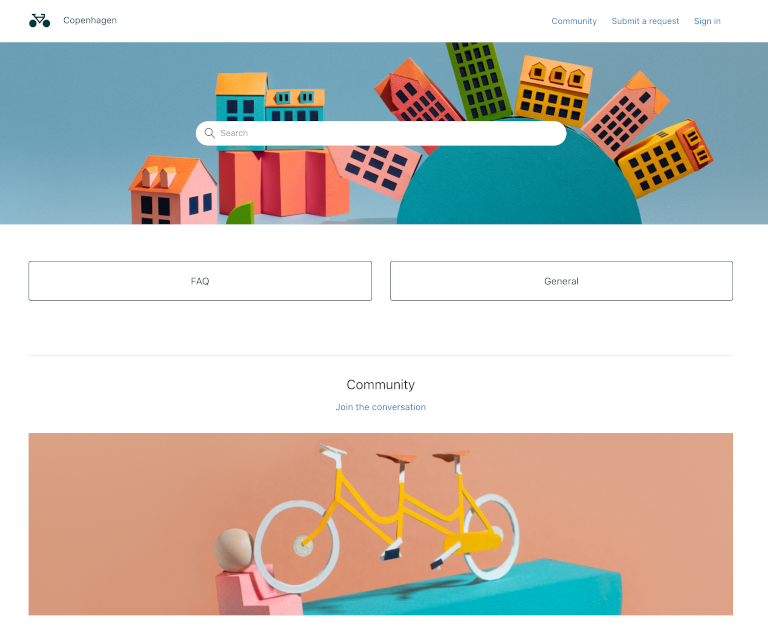
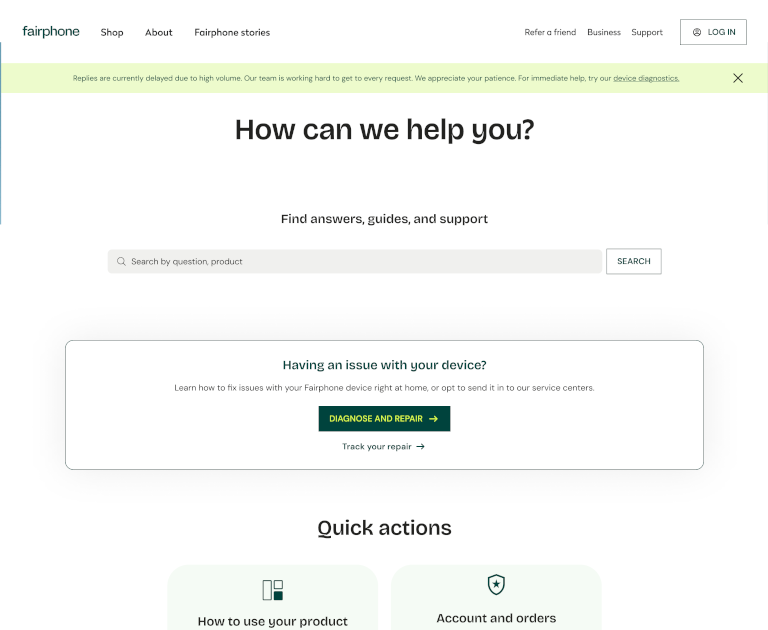
chore: bump version to 4.4.6 and fix asset URL references
- Update manifest.json version and name for new release
- Replace hyphens with underscores in asset URL paths in style.css to match actual file naming convention

diff --git a/style.css b/style.css
@@ -155,15 +155,15 @@ hr {
 
 @font-face {
   font-family: "BricolageGrotesque";
-  src: url($assets-font_BricolageGrotesque24pt_SemiBold-eot);
-  src: url($assets-font_BricolageGrotesque24pt_SemiBold-eot?#iefix) format("eot"), url($assets-font_BricolageGrotesque24pt_SemiBold-woff) format("woff"), url($assets-font_BricolageGrotesque_24pt_SemiBold-ttf) format("truetype"), url($assets-font_BricolageGrotesque24pt_SemiBold-svg) format("svg");
+  src: url($assets_font_BricolageGrotesque24pt_SemiBold_eot);
+  src: url($assets_font_BricolageGrotesque24pt_SemiBold_eot?#iefix) format("eot"), url($assets_font_BricolageGrotesque24pt_SemiBold_woff) format("woff"), url($assets_font_BricolageGrotesque_24pt_SemiBold_ttf) format("truetype"), url($assets_font_BricolageGrotesque24pt_SemiBold_svg) format("svg");
   font-weight: 400;
   font-style: normal;
 }
 @font-face {
   font-family: "DMSans";
-  src: url($assets-font_DMSans24pt_Medium-eot);
-  src: url($assets-font_DMSans24pt_Medium-eot?#iefix) format("eot"), url($assets-font_DMSans24pt_Medium-woff) format("woff"), url($assets-font_DMSans_24pt_Medium-ttf) format("truetype"), url($assets-font_DMSans24pt_Medium-svg) format("svg");
+  src: url($assets_font_DMSans24pt_Medium_eot);
+  src: url($assets_font_DMSans24pt_Medium_eot?#iefix) format("eot"), url($assets_font_DMSans24pt_Medium_woff) format("woff"), url($assets_font_DMSans_24pt_Medium_ttf) format("truetype"), url($assets_font_DMSans24pt_Medium_svg) format("svg");
   font-weight: 400;
   font-style: normal;
 }
@@ -346,7 +346,7 @@ p {
   padding: 0 0 0 33px;
 }
 .article-body ul.checklist > li::before {
-  background-image: url($assets-svg_check-svg);
+  background-image: url($assets_svg_check_svg);
   background-position: center;
   background-repeat: no-repeat;
   background-size: contain;
@@ -681,7 +681,7 @@ a[target=_blank]::after {
 }
 
 .c-footer-contact__block-link--chevron::after {
-  content: url($assets-svg_chevron_right_blue-svg);
+  content: url($assets_svg_chevron_right_blue_svg);
   margin: 0 0 0 8px;
 }
 
@@ -1005,7 +1005,7 @@ body .dropdown-menu > li > a {
 }
 
 .c-logo__link {
-  background-image: url($assets-svg_FP_logo_forest-svg);
+  background-image: url($assets_svg_FP_logo_forest_svg);
   background-position: left center;
   background-repeat: no-repeat;
 }
@@ -1236,7 +1236,7 @@ body .c-header__info .user-info + #google_translate_element {
 }
 .c-search-popover-main-nav > .c-search-popover-main-nav__item--parent > .c-search-popover-main-nav__link::after {
   content: "";
-  background-image: url($assets-svg_chevron_wide-svg);
+  background-image: url($assets_svg_chevron_wide_svg);
   background-position: center;
   background-repeat: no-repeat;
   background-size: 20px 20px;
@@ -1607,28 +1607,28 @@ section.search-results-column {
 }
 
 .c-footer__list-link--facebook {
-  mask-image: url($assets-svg_fp_footer_facebook_icon-svg);
-  -webkit-mask-image: url($assets-svg_fp_footer_facebook_icon-svg);
+  mask-image: url($assets_svg_fp_footer_facebook_icon_svg);
+  -webkit-mask-image: url($assets_svg_fp_footer_facebook_icon_svg);
 }
 
 .c-footer__list-link--instagram {
-  mask-image: url($assets-svg_fp_footer_instagram_icon-svg);
-  -webkit-mask-image: url($assets-svg_fp_footer_instagram_icon-svg);
+  mask-image: url($assets_svg_fp_footer_instagram_icon_svg);
+  -webkit-mask-image: url($assets_svg_fp_footer_instagram_icon_svg);
 }
 
 .c-footer__list-link--linkedin {
-  mask-image: url($assets-svg_fp_footer_linkedin_icon-svg);
-  -webkit-mask-image: url($assets-svg_fp_footer_linkedin_icon-svg);
+  mask-image: url($assets_svg_fp_footer_linkedin_icon_svg);
+  -webkit-mask-image: url($assets_svg_fp_footer_linkedin_icon_svg);
 }
 
 .c-footer__list-link--twitter {
-  mask-image: url($assets-svg_fp_footer_twitter_icon-svg);
-  -webkit-mask-image: url($assets-svg_fp_footer_twitter_icon-svg);
+  mask-image: url($assets_svg_fp_footer_twitter_icon_svg);
+  -webkit-mask-image: url($assets_svg_fp_footer_twitter_icon_svg);
 }
 
 .c-footer__list-link--youtube {
-  mask-image: url($assets-svg_fp_footer_youtube_icon-svg);
-  -webkit-mask-image: url($assets-svg_fp_footer_youtube_icon-svg);
+  mask-image: url($assets_svg_fp_footer_youtube_icon_svg);
+  -webkit-mask-image: url($assets_svg_fp_footer_youtube_icon_svg);
 }
 
 ul.c-footer__inline-list {
@@ -1863,15 +1863,15 @@ ul.c-footer__inline-list > li.copyright {
 }
 
 .c-footer-contact__block-icon--contact {
-  background-image: url($assets-img_icon_contact-png);
+  background-image: url($assets_img_icon_contact_png);
 }
 
 .c-footer-contact__block-icon--phone {
-  background-image: url($assets-img_icon_phone-png);
+  background-image: url($assets_img_icon_phone_png);
 }
 
 .c-footer-contact__block-icon--community {
-  background-image: url($assets-img_icon_community-png);
+  background-image: url($assets_img_icon_community_png);
 }
 
 .c-footer-contact__block-title {
@@ -1913,7 +1913,7 @@ ul.c-footer__inline-list > li.copyright {
 }
 
 .c-footer-contact__block-link--chevron::after {
-  content: url($assets-svg_chevron_right_blue-svg);
+  content: url($assets_svg_chevron_right_blue_svg);
   margin: 0 0 0 8px;
 }
 
@@ -1930,6 +1930,15 @@ ul.c-footer__inline-list > li.copyright {
 ul.c-footer ul {
   list-style: none;
   padding: 0;
+}
+
+.row {
+  max-width: 72.5rem;
+  width: 100%;
+  margin-left: auto;
+  margin-right: auto;
+  display: flex;
+  flex-flow: row wrap;
 }
 
 .accordion {
@@ -2812,15 +2821,15 @@ ul.c-footer ul {
 }
 
 .c-home-ctas__cta-img--phone {
-  background-image: url($assets-svg_big_refurbished-svg);
+  background-image: url($assets_svg_big_refurbished_svg);
 }
 
 .c-home-ctas__cta-img--issue {
-  background-image: url($assets-img_repair-png);
+  background-image: url($assets_img_repair_png);
 }
 
 .c-home-ctas__cta-img--order {
-  background-image: url($assets-img_big_order-png);
+  background-image: url($assets_img_big_order_png);
 }
 
 .c-home-ctas__cta-title {
@@ -2959,7 +2968,7 @@ a.c-home-ctas__cta:hover .c-home-ctas__cta-title {
   background-position: center;
   position: relative;
   z-index: 99;
-  background-image: url($assets-img_banner-jpg);
+  background-image: url($assets_img_banner_jpg);
   background-size: cover;
   background-position: center bottom;
 }
@@ -2987,7 +2996,7 @@ a.c-home-ctas__cta:hover .c-home-ctas__cta-title {
 .c-home-search .search input[type=search] {
   border-radius: 3px 0 0 3px;
   border-right: none;
-  background: #ffffff url($assets-svg_magnifier-svg) no-repeat 10px center/15px 15px;
+  background: #ffffff url($assets_svg_magnifier_svg) no-repeat 10px center/15px 15px;
   color: #3C3C3C;
   font-size: 1.3125rem;
   font-family: "DMSans", sans-serif;
@@ -3129,7 +3138,7 @@ a.c-home-ctas__cta:hover .c-home-ctas__cta-title {
 }
 .c-simple-search__form form.search input[type=submit] {
   background: transparent;
-  background-image: url($assets-svg_magnifier_new-svg);
+  background-image: url($assets_svg_magnifier_new_svg);
   background-position: center;
   background-repeat: no-repeat;
   background-size: 20px 20px;
@@ -3913,7 +3922,7 @@ a.c-home-ctas__cta:hover .c-home-ctas__cta-title {
   top: 9px;
 }
 .article-body ul.checklist > li::before {
-  background-image: url($assets-svg_check-svg);
+  background-image: url($assets_svg_check_svg);
   background-position: center;
   background-repeat: no-repeat;
   background-size: contain;